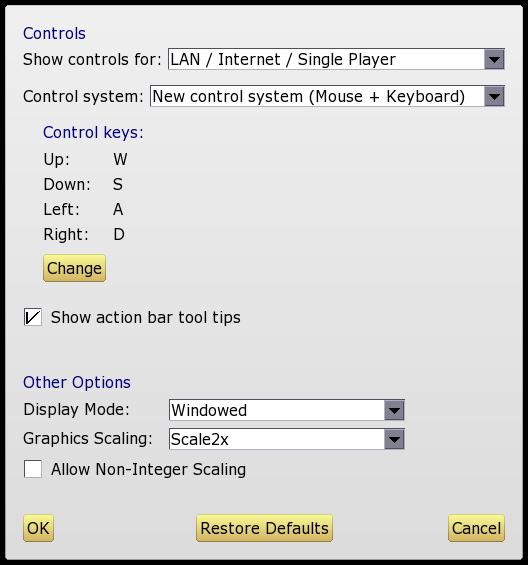
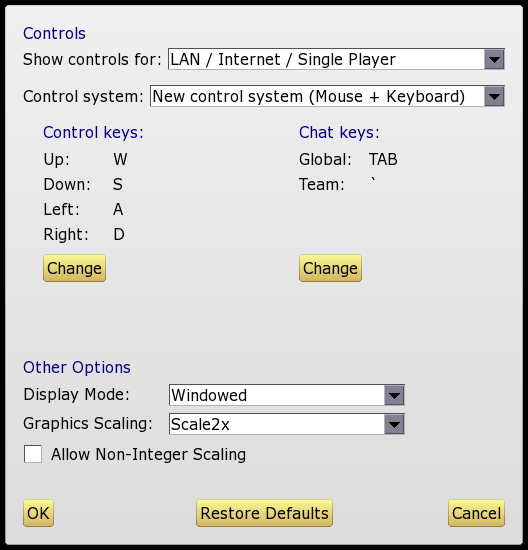
#28 and #159: updates to manual. (Also checked in some updates re. deathmatch games, which seem to have been added to the website version of the manual but not the one that is installed with the game.)
git-svn-id: svn://www.knightsgame.org.uk/trunk@88 00979ad9-a3a6-4f7a-b49c-25ba5319b333

diff --git a/docs/manual/quest_selection.html b/docs/manual/quest_selection.html
@@ -31,17 +31,13 @@
 
 <p><img src="images/quest_selection.png" alt="Screenshot"></p>
 
-<p>(Note that for split screen games, a cut-down version of the above
-  screen, without the chat area and player list, is displayed.)</p>
+<p>(Note split screen and single player games use a cut-down version
+  of this screen, without the chat area and player list.)</p>
 
 <p>The main part of the screen, on the left, is taken up with the
- quest settings, which are explained below. The right-hand half of the
- screen is used for chat, and you can also adjust your knight's House
- Colours here.</p>
-
-<p>Once all players in the game click on "Ready to Start", the game
-  will begin. (There must be at least two players present to start a
-  game.)</p>
+ quest settings, which are explained below. The right-hand area is
+ used for chat. At the bottom is a "Ready to Start" button; once all
+ players click this, the game begins.</p>
 
 <p>If you click "Observe" then you will "sit out" of the next game.
   You will be able to watch the game but not take part. To re-join the
@@ -52,12 +48,15 @@
 
 <p>To play one of the pre-defined quests, simply select it from the
   Quest drop-down. A brief description of the mission will appear in
-  the small window at the bottom left. Alternatively, you can set up a
-  custom quest by adjusting the various settings (see below).</p>
+  the small window at the bottom left.</p>
 
-<p>There is also a "Random Quest" button. This will randomize all the
-  settings and is good for times when you can't decide what quest you
-  want to play.</p>
+<p>To set up a custom quest, use the drop-down boxes to enter your
+  desired mission objectives and other settings. (These are
+  described in detail below.)</p>
+
+<p>To allow the game to randomly choose a quest for you, click on
+  "Random Quest". You can then either accept the quest as-is, make
+  some tweaks of your own, or ask for another random quest.</p>
 
 
 <h4>Quest Objectives</h4>
@@ -68,24 +67,31 @@
 <ul>
   <li><b>Mission Type:</b> Can be set to:
     <ul>
-      <li><i>Escape from the Dungeon:</i> Your knight must leave the
+      <li><b>Escape from the Dungeon:</b> Your knight must leave the
         dungeon via the exit point to win.</li>
-      <li><i>Retrieve Book and Escape:</i> Your knight must retrieve
+      <li><b>Retrieve Book and Escape:</b> Your knight must retrieve
         the book and then escape via the exit point.</li>
-      <li><i>Retrieve Wand and Escape:</i> Your knight must retrieve
+      <li><b>Retrieve Wand and Escape:</b> Your knight must retrieve
         the wand and then escape via the exit point.</li>
-      <li><i>Destroy Book with Wand:</i> Your knight must find the
+      <li><b>Destroy Book with Wand:</b> Your knight must find the
         book, place it in the "special" pentagram and then destroy it
         by striking it with the wand. (The special pentagram will be
         surrounded by stairs or other decorations and is easily
         distinguishable from a normal pentagram. See
         also <a href="dungeon_features.html#pentagram">Pentagrams</a>.)</li>
-      <li><i>Duel to the Death:</i> The last knight alive wins! In
+      <li><b>Duel to the Death:</b> The last knight alive wins! In
         order to win this quest you will first need to "secure" all
-        the entry points, so that your enemy cannot re-enter the
-        dungeon when he dies.
+        the entry points, so that your enemies cannot re-enter the
+        dungeon when they die.
         See also <a href="items.html#wand_of_securing">Wand of
         Securing</a>.</li>
+      <li><b>Deathmatch:</b> In this game you score one point for
+        killing an enemy knight, and lose one point when you commit
+        suicide. (Being killed by a monster is "neutral" and does not
+        affect your score.) The winner is the player with the highest
+        score when the time runs out. (If no time limit is set then
+        the game will go on forever, or at least until the players get
+        bored...)</li>
     </ul>
   </li>
   <li><b>Type of Book:</b> If the quest involves a book then you can
@@ -117,15 +123,16 @@
     map of the dungeon.</li>
   <li><b>Entry Point:</b> Controls where each knight enters the
     dungeon. Choose from Total Random, Close to Other (the knights
-    start close together), or Away from Other (the knights start far
-    apart from each other).</li>
-  <li><b>Exit Point:</b> This is the place where the knight has to
-    go to escape from the dungeon. Choose from Same as Entry (leave
-    via your own entry point), Other's Entry (leave via your
-    opponent's entry point), Guarded (the exit point is behind locked
-    doors and guarded by vampire bats), or Total Random (the exit
-    point is in an unknown, random location). Note that Other's Entry
-    is only available in two-player games.</li>
+    start close together), Away from Other (the knights start far
+    apart from each other), or Different every Time (a different
+    random entry point is chosen every time you respawn).</li>
+  <li><b>Exit Point:</b> This is the place where the knight has to go
+    to escape from the dungeon. Choose from Same as Entry (leave via
+    your own entry point), Other's Entry (leave via your opponent's
+    entry point), Guarded (the exit point is behind locked doors and
+    guarded by vampire bats), or Total Random (the exit point is at an
+    unknown, random location). Note that Other's Entry is only
+    available in two-player games.</li>
   <li><b>Starting Gear:</b> Knights may start the game with daggers,
     traps, both, or just their trusty sword.</li>
   <li><b>Number of Keys:</b> Controls the number of keys generated
@@ -154,10 +161,32 @@
 
 <h4>Time Limit</h4>
 
-<p>There is also an option to set a time limit. This is mainly
-  intended for use with the single player game mode, but it can also
-  be used in multiplayer games. If the time limit runs out, then all
-  players lose.</p>
+<p>There is also an option to set a time limit. If the time limit runs
+  out, then all players lose. (The exception is deathmatch games,
+  where the player with the highest score will be declared the winner
+  when time runs out.)</p>
+
+<h4>House Colours and Team Games</h4>
+
+<p>At the right-hand side of the screen, you can set your knight's
+  House Colours. Knights of the same House are deemed to be allies;
+  therefore, depending on the colours chosen, the game will either be
+  "all against all" (if every knight has their own colour) or a "team"
+  game (if some knights share the same colour).</p>
+
+<p>In team games, there are some changes to the normal rules:</p>
+
+<ul>
+  <li>Friendly fire is disabled; your weapon blows will not harm other
+  knights on your own team.</li>
+
+  <li>Only one team member can complete the quest. For example, if the
+  quest is to retrieve 3 gems and the book, then it is not allowed for
+  one knight to take the gems, and another to take the book; there
+  must be one knight who has both the gems and the book. However, as
+  soon as one knight finishes the quest, all knights on that team will
+  be declared "winners".</li>
+</ul>
 
 <div class="footer2">
 <table><tr>

diff --git a/docs/manual/screen_layout.html b/docs/manual/screen_layout.html
@@ -95,6 +95,11 @@
   the ping time for each player. (Note that in a LAN game, the ping
   time for the host is always zero.)</p>
 
+<h3>Quest Requirements</h3>
+
+<p>This is a reminder of the objectives for the current quest.
+  Complete these to win the game.</p>
+
 <h3>Message Area (and Chat)</h3>
 
 <p>The "Messages" area contains chat messages sent by the players, and
@@ -105,8 +110,10 @@
 
 <p>In team games you can type "/t" (without the quotes) at the start
   of your message, to send to your team members only, instead of to
-  all players. (Note this is case sensitive i.e. "/T" will not
-  work.)</p>
+  all players. (Note this is case sensitive i.e. "/T" will not work.)
+  Also, as a shortcut, pressing ` (the key normally above TAB) will
+  activate the chat box and automatically insert "/t", so you can
+  begin typing a team message right away.</p>
 
 <p>While you are typing, you cannot move or fight, but a speech bubble
   will appear above your knight, to let your opponents know you are
